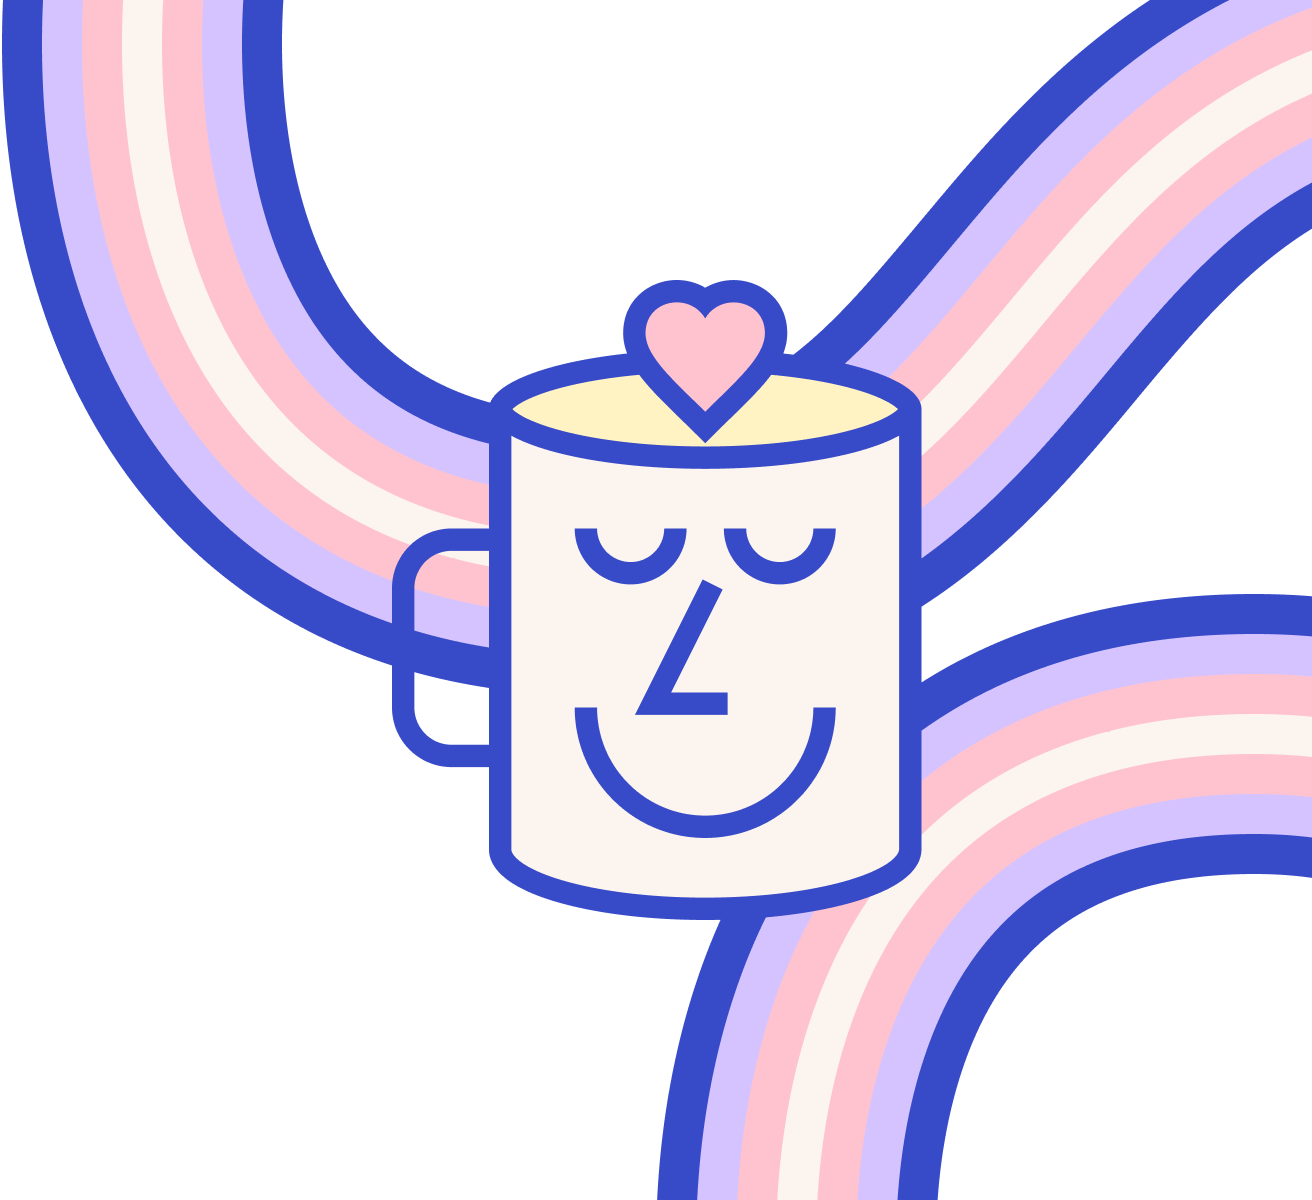
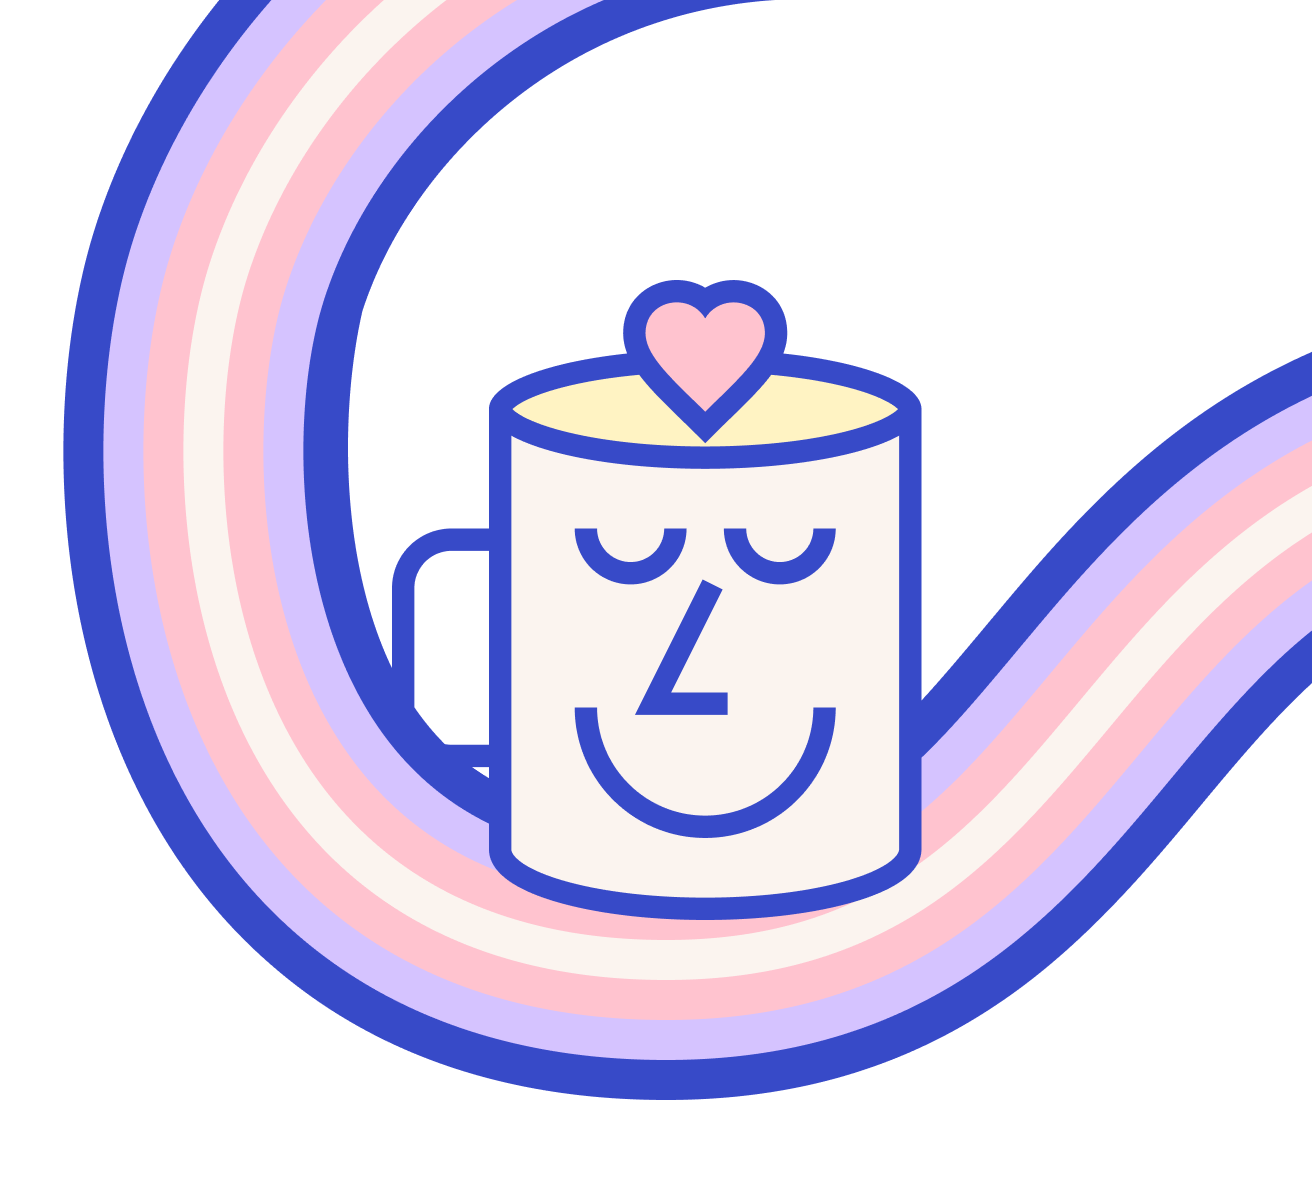
Stuff!

diff --git a/assets/css/shared.css b/assets/css/shared.css
@@ -162,7 +162,7 @@ blockquote {
 }
 
 cite {
-	font-size: var( --wp--preset--font-size--tiny );
+	font-size: var( --wp--preset--font-size--heading-6 );
 	font-style: normal;
 	font-weight: var( --wp--custom--font-weight--bold );
 	letter-spacing: var( --wp--custom--letter-spacing--uppercase );

diff --git a/assets/css/blocks.css b/assets/css/blocks.css
@@ -1339,7 +1339,7 @@ ul.wp-block-post-template > li {
 }
 
 :root .wp-block-quote cite {
-	font-size: var( --wp--preset--font-size--tiny );
+	font-size: var( --wp--preset--font-size--heading-6 );
 	text-align: inherit;
 }
 

diff --git a/inc/block-patterns/general-media-text-button.php b/inc/block-patterns/general-media-text-button.php
@@ -1,6 +1,6 @@
-<!-- wp:media-text {"mediaPosition":"right","mediaLink":"<?php echo get_stylesheet_directory_uri(); ?>/assets/images/illustrations/cup-illustration-square-2.png","mediaType":"image","mediaSizeSlug":"full","imageFill":true,"focalPoint":{"x":0,"y":"0.50"},"backgroundColor":"senary","className":"is-style-default"} -->
+<!-- wp:media-text {"mediaPosition":"right","mediaLink":"<?php echo get_template_directory_uri(); ?>/assets/images/illustrations/cup-illustration-square.png","mediaType":"image","mediaSizeSlug":"full","imageFill":true,"focalPoint":{"x":0,"y":"0.50"},"backgroundColor":"senary","className":"is-style-default"} -->
 <div class="wp-block-media-text alignwide has-media-on-the-right is-stacked-on-mobile is-image-fill is-style-default has-senary-background-color has-background">
-	<figure class="wp-block-media-text__media" style="background-image:url(<?php echo get_stylesheet_directory_uri(); ?>/assets/images/illustrations/cup-illustration-square-2.png);background-position:0% 50%"><img src="<?php echo get_stylesheet_directory_uri(); ?>/assets/images/illustrations/cup-illustration-square-2.png" alt="" /></figure>
+	<figure class="wp-block-media-text__media" style="background-image:url(<?php echo get_template_directory_uri(); ?>/assets/images/illustrations/cup-illustration-square.png);background-position:0% 50%"><img src="<?php echo get_template_directory_uri(); ?>/assets/images/illustrations/cup-illustration-square.png" alt="" /></figure>
 	<div class="wp-block-media-text__content">
 		<!-- wp:heading {"level":6,"backgroundColor":"secondary","className":"no-margin-bottom"} -->
 		<h6 class="no-margin-bottom has-secondary-background-color has-background">Hammarby Kaj 10</h6>

diff --git a/inc/block-patterns/restaurant-location.php b/inc/block-patterns/restaurant-location.php
@@ -1,6 +1,6 @@
-<!-- wp:media-text {"mediaPosition":"right","mediaLink":"<?php echo get_stylesheet_directory_uri(); ?>/assets/images/illustrations/cup-illustration-square-2.png","mediaType":"image","mediaSizeSlug":"full","imageFill":true,"focalPoint":{"x":0,"y":"0.50"},"backgroundColor":"senary","className":"is-style-default"} -->
+<!-- wp:media-text {"mediaPosition":"right","mediaLink":"<?php echo get_template_directory_uri(); ?>/assets/images/illustrations/cup-illustration-square.png","mediaType":"image","mediaSizeSlug":"full","imageFill":true,"focalPoint":{"x":0,"y":"0.50"},"backgroundColor":"senary","className":"is-style-default"} -->
 <div class="wp-block-media-text alignwide has-media-on-the-right is-stacked-on-mobile is-image-fill is-style-default has-senary-background-color has-background">
-	<figure class="wp-block-media-text__media" style="background-image:url(<?php echo get_stylesheet_directory_uri(); ?>/assets/images/illustrations/cup-illustration-square-2.png);background-position:0% 50%"><img src="<?php echo get_stylesheet_directory_uri(); ?>/assets/images/illustrations/cup-illustration-square-2.png" alt="" /></figure>
+	<figure class="wp-block-media-text__media" style="background-image:url(<?php echo get_template_directory_uri(); ?>/assets/images/illustrations/cup-illustration-square.png);background-position:0% 50%"><img src="<?php echo get_template_directory_uri(); ?>/assets/images/illustrations/cup-illustration-square.png" alt="" /></figure>
 	<div class="wp-block-media-text__content">
 		<!-- wp:heading {"level":3} -->
 		<h3>Hammarby Kaj 10</h3>

diff --git a/inc/block-patterns/restaurant-featured-dish.php b/inc/block-patterns/restaurant-featured-dish.php
@@ -1,6 +1,6 @@
-<!-- wp:media-text {"mediaPosition":"right","mediaLink":"<?php echo get_stylesheet_directory_uri(); ?>/assets/images/illustrations/cup-illustration-square-2.png","mediaType":"image","mediaSizeSlug":"full","backgroundColor":"secondary"} -->
+<!-- wp:media-text {"mediaPosition":"right","mediaLink":"<?php echo get_template_directory_uri(); ?>/assets/images/illustrations/cup-illustration-square.png","mediaType":"image","mediaSizeSlug":"full","backgroundColor":"secondary"} -->
 <div class="wp-block-media-text alignwide has-media-on-the-right is-stacked-on-mobile has-secondary-background-color has-background">
-	<figure class="wp-block-media-text__media"><img src="<?php echo get_stylesheet_directory_uri(); ?>/assets/images/illustrations/cup-illustration-square-2.png" alt="" /></figure>
+	<figure class="wp-block-media-text__media"><img src="<?php echo get_template_directory_uri(); ?>/assets/images/illustrations/cup-illustration-square.png" alt="" /></figure>
 	<div class="wp-block-media-text__content">
 		<!-- wp:group {"layout":{"inherit":false,"contentSize":"500px"}} -->
 		<div class="wp-block-group">

diff --git a/inc/block-patterns/hero-cover.php b/inc/block-patterns/hero-cover.php
@@ -1,5 +1,5 @@
-<!-- wp:cover {"url":"<?php echo get_stylesheet_directory_uri(); ?>/assets/images/illustrations/smile-square.png","id":23924,"hasParallax":true,"dimRatio":10,"minHeight":75,"minHeightUnit":"vh","contentPosition":"center center","align":"full"} -->
-<div class="wp-block-cover alignfull has-background-dim-10 has-background-dim has-parallax" style="background-image:url(<?php echo get_stylesheet_directory_uri(); ?>/assets/images/illustrations/smile-square.png);min-height:75vh">
+<!-- wp:cover {"url":"<?php echo get_template_directory_uri(); ?>/assets/images/illustrations/smile-square.png","id":23924,"hasParallax":true,"dimRatio":0,"minHeight":75,"minHeightUnit":"vh","contentPosition":"center center","align":"full"} -->
+<div class="wp-block-cover alignfull has-parallax" style="background-image:url(<?php echo get_template_directory_uri(); ?>/assets/images/illustrations/smile-square.png);min-height:75vh">
 	<div class="wp-block-cover__inner-container">
 		<!-- wp:group {"layout":{"inherit":true}} -->
 		<div class="wp-block-group">

diff --git a/inc/block-patterns/hero-cover-group-bg.php b/inc/block-patterns/hero-cover-group-bg.php
@@ -1,5 +1,5 @@
-<!-- wp:cover {"url":"<?php echo get_stylesheet_directory_uri(); ?>/assets/images/illustrations/smile-square.png","hasParallax":true,"dimRatio":0,"minHeight":66,"minHeightUnit":"vh","align":"full"} -->
-<div class="wp-block-cover alignfull has-parallax" style="background-image:url(<?php echo get_stylesheet_directory_uri(); ?>/assets/images/illustrations/smile-square.png);min-height:66vh">
+<!-- wp:cover {"url":"<?php echo get_template_directory_uri(); ?>/assets/images/illustrations/smile-square.png","hasParallax":true,"dimRatio":0,"minHeight":66,"minHeightUnit":"vh","align":"full"} -->
+<div class="wp-block-cover alignfull has-parallax" style="background-image:url(<?php echo get_template_directory_uri(); ?>/assets/images/illustrations/smile-square.png);min-height:66vh">
 	<div class="wp-block-cover__inner-container">
 		<!-- wp:group {"layout":{"inherit":false,"contentSize":"900px"}} -->
 		<div class="wp-block-group">

diff --git a/functions.php b/functions.php
@@ -335,13 +335,13 @@ if ( ! function_exists( 'tove_register_block_patterns' ) ) :
 			'tove/restaurant-opening-hours-table' => array(
 				'title'         => esc_html__( 'A table with opening hours.', 'tove' ),
 				'categories'    => array( 'tove-restaurant' ),
-				'viewportWidth' => 288,
+				'viewportWidth' => 480,
 				'content'       => tove_get_block_pattern_markup( 'restaurant-opening-hours-table' ),
 			),
 			'tove/restaurant-reservation-big' => array(
-				'title'         => esc_html__( 'A really big "Make a Reservation" button.', 'tove' ),
+				'title'         => esc_html__( 'A really big Make a Reservation button.', 'tove' ),
 				'categories'    => array( 'tove-restaurant' ),
-				'viewportWidth' => 288,
+				'viewportWidth' => $viewport_inner,
 				'content'       => tove_get_block_pattern_markup( 'restaurant-reservation-big' ),
 			),
 
